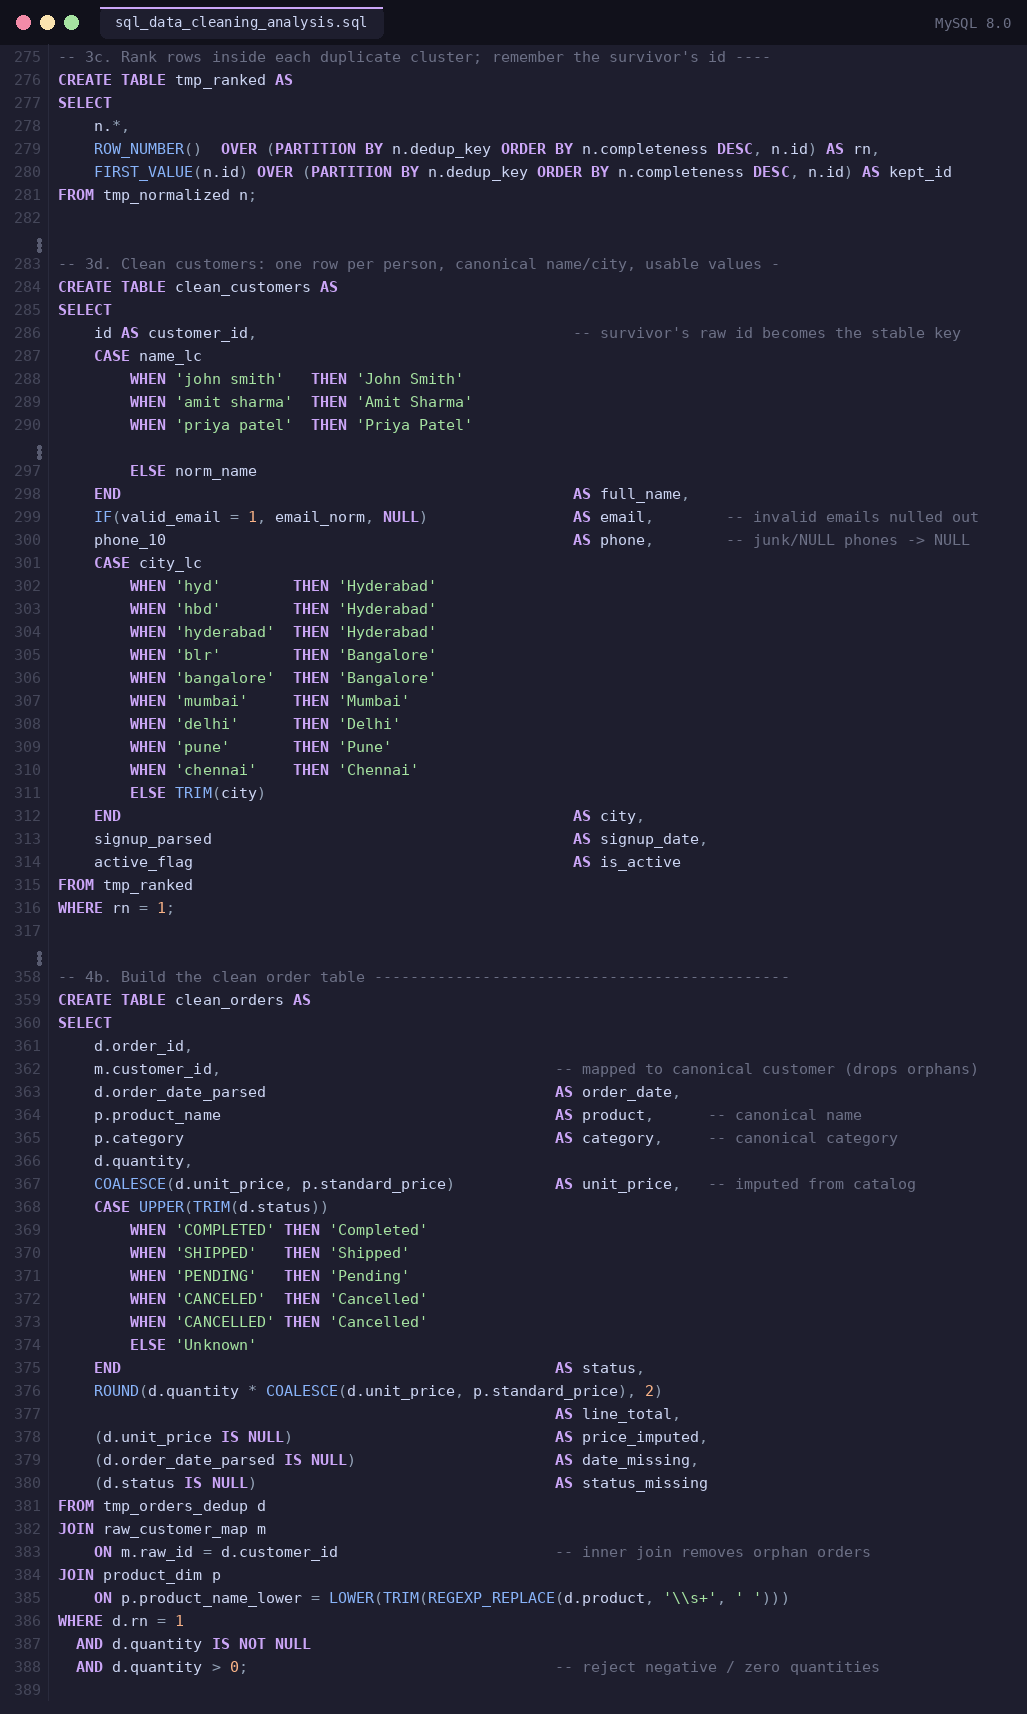
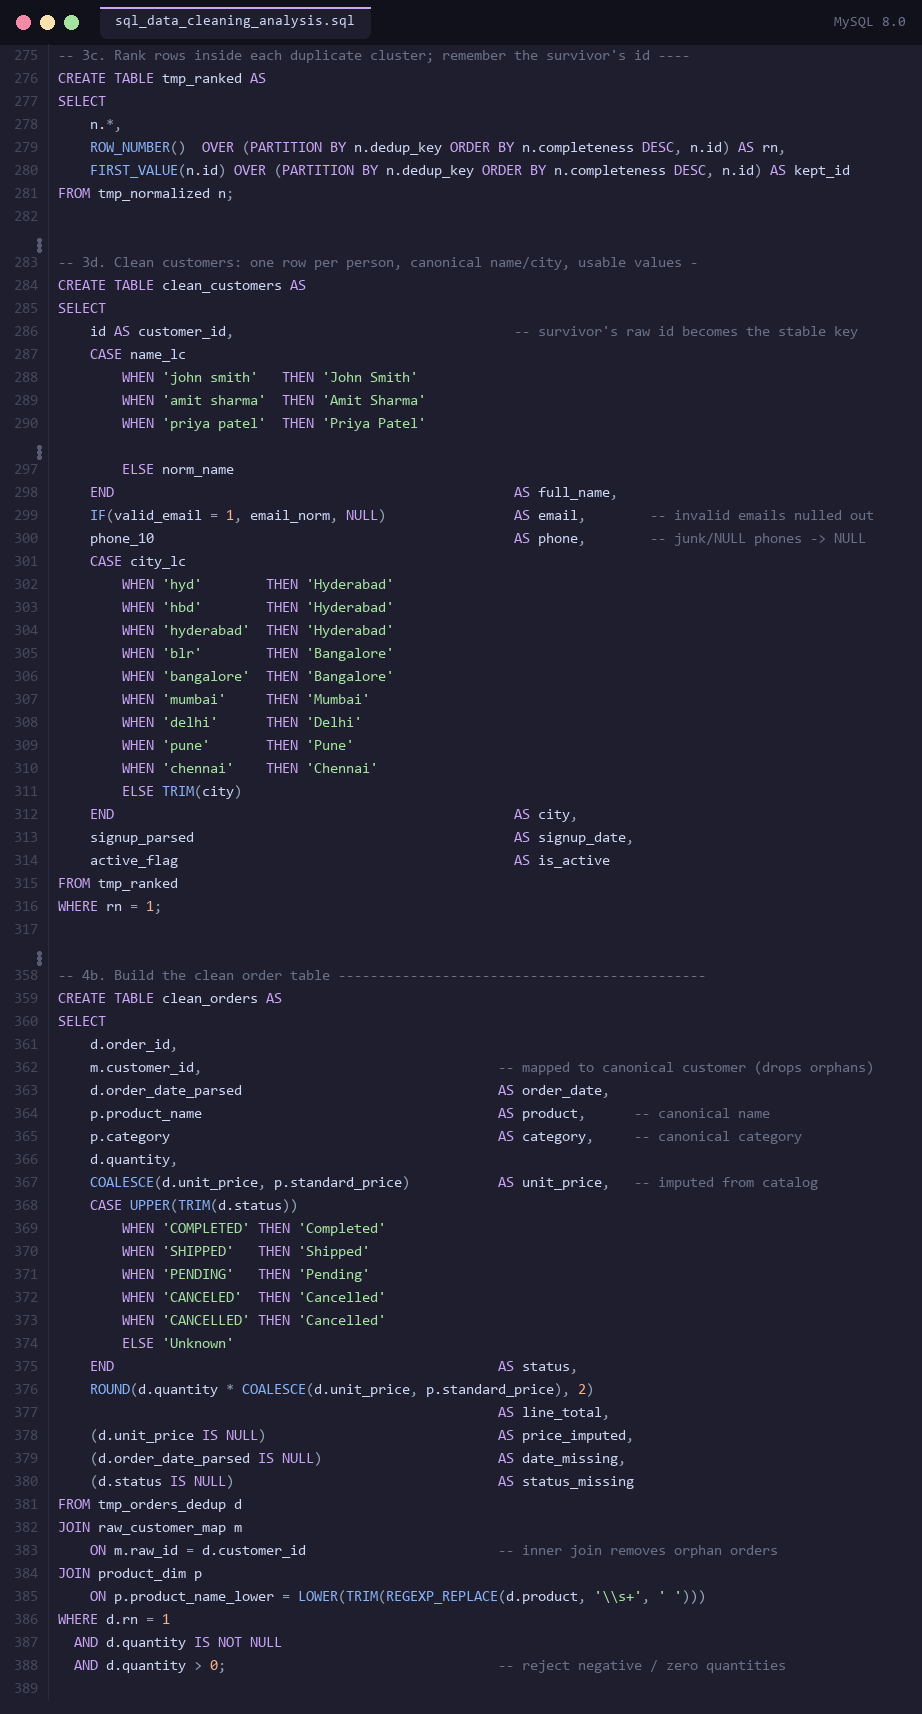
Update README and refresh screenshots

diff --git a/make_shots.py b/make_shots.py
@@ -4,13 +4,30 @@
    Shot 3/4: mysql terminal style (real output from the verified run)
 """
 import re
+from pathlib import Path
 from PIL import Image, ImageDraw, ImageFont
 
-MONO = "/usr/share/fonts/truetype/dejavu/DejaVuSansMono.ttf"
-MONO_B = "/usr/share/fonts/truetype/dejavu/DejaVuSansMono-Bold.ttf"
+BASE_DIR = Path(__file__).resolve().parent
+SCREENSHOTS_DIR = BASE_DIR / "screenshots"
+SCREENSHOTS_DIR.mkdir(exist_ok=True)
+
+FONT_CANDIDATES = [
+    "/usr/share/fonts/truetype/dejavu/DejaVuSansMono.ttf",
+    "/usr/share/fonts/truetype/liberation2/LiberationMono-Regular.ttf",
+    "C:/Windows/Fonts/consola.ttf",
+    "C:/Windows/Fonts/consolab.ttf",
+    "C:/Windows/Fonts/cour.ttf",
+    "C:/Windows/Fonts/courbd.ttf",
+]
+
 
 def F(size, bold=False):
-    return ImageFont.truetype(MONO_B if bold else MONO, size)
+    for path in (FONT_CANDIDATES[1] if bold else FONT_CANDIDATES[0],
+                 *([FONT_CANDIDATES[2], FONT_CANDIDATES[3], FONT_CANDIDATES[4], FONT_CANDIDATES[5]])):
+        candidate = Path(path) if not path.startswith("/") else Path(path)
+        if candidate.exists():
+            return ImageFont.truetype(str(candidate), size)
+    return ImageFont.load_default()
 
 BG      = "#1e1e2e"
 TITLEBG = "#11111b"
@@ -168,7 +185,7 @@ def block(kind, lines):
     return [(kind, l) for l in lines]
 
 # =====================================================================
-SQL = open("/home/user/sql_data_cleaning_analysis.sql").read().splitlines()
+SQL = (BASE_DIR / "sql_data_cleaning_analysis.sql").read_text(encoding="utf-8").splitlines()
 
 def line_of(prefix):
     for i, l in enumerate(SQL):
@@ -193,7 +210,7 @@ items = (
     + gap()
     + numbered("-- 2.5 Duplicate order ids", "-- 2.6 Invalid quantities")
 )
-render_code("/home/user/screenshots/shot1_audit_queries.png",
+render_code(str(SCREENSHOTS_DIR / "shot1_audit_queries.png"),
             "sql_data_cleaning_analysis.sql", items)
 
 # =====================================================================
@@ -211,7 +228,7 @@ items = (
     + numbered("-- 4b. Build the clean order table", "DROP TABLE tmp_orders_dedup;")
 )
 items = [it for it in items if not (it[0] is not None and it[1].startswith("DROP TABLE tmp_orders_dedup"))]
-render_code("/home/user/screenshots/shot2_cleaning_logic.png",
+render_code(str(SCREENSHOTS_DIR / "shot2_cleaning_logic.png"),
             "sql_data_cleaning_analysis.sql", items)
 
 # =====================================================================
@@ -248,7 +265,7 @@ blocks = [
     block("prompt", ["SELECT customer_id, full_name, email, phone, city, signup_date FROM clean_customers;"]),
     table(["customer_id", "full_name", "email", "phone", "city", "signup_date"], cust),
 ]
-render_terminal("/home/user/screenshots/shot3_quality_report.png",
+render_terminal(str(SCREENSHOTS_DIR / "shot3_quality_report.png"),
                 "MySQL 8.0 — query results", blocks)
 
 # =====================================================================
@@ -300,5 +317,5 @@ blocks = [
     + table(["customers_with_orders", "repeat_customers", "repeat_purchase_pct"],
             [("9", "8", "88.9")]),
 ]
-render_terminal("/home/user/screenshots/shot4_analysis_results.png",
+render_terminal(str(SCREENSHOTS_DIR / "shot4_analysis_results.png"),
                 "MySQL 8.0 — analysis queries", blocks)

diff --git a/README.md b/README.md
@@ -32,15 +32,36 @@ The script in `sql_data_cleaning_analysis.sql` does the following:
 
 ## How to run
 
-1. Make sure MySQL 8.0+ is installed.
-2. Open a terminal in this project folder.
-3. Run:
+### Option 1: MySQL or MariaDB locally
 
-```bash
-mysql -u <username> -p < sql_data_cleaning_analysis.sql
+1. Start a local MySQL/MariaDB server.
+2. Open PowerShell in this project folder.
+3. Add the database client to `PATH` if needed.
+4. Run the script:
+
+```powershell
+$env:Path += ";C:\Program Files\MariaDB 13.0\bin"
+Get-Content .\sql_data_cleaning_analysis.sql | mariadb --batch --skip-column-names -u root
+```
+
+If you are using MySQL instead of MariaDB, replace the path with your MySQL install, for example:
+
+```powershell
+$env:Path += ";C:\Program Files\MySQL\MySQL Server 8.4\bin"
+Get-Content .\sql_data_cleaning_analysis.sql | mysql -u root -p
 ```
 
 The script creates and uses the `demo_ecommerce` schema and is designed to be re-run safely.
+
+### Option 2: Generate the project screenshots
+
+From the project directory:
+
+```powershell
+python .\make_shots.py
+```
+
+This regenerates the PNG files under the `screenshots/` folder.
 
 ## Example outputs
 
